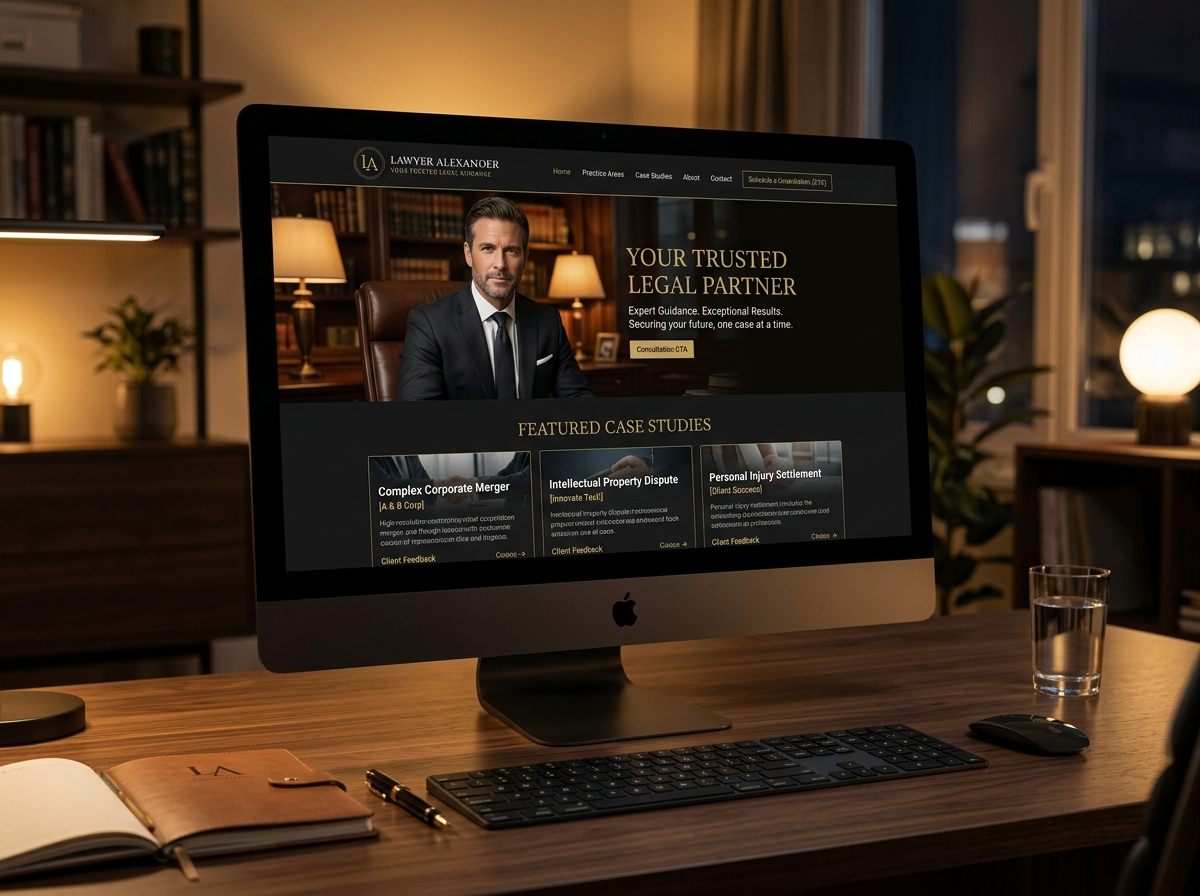
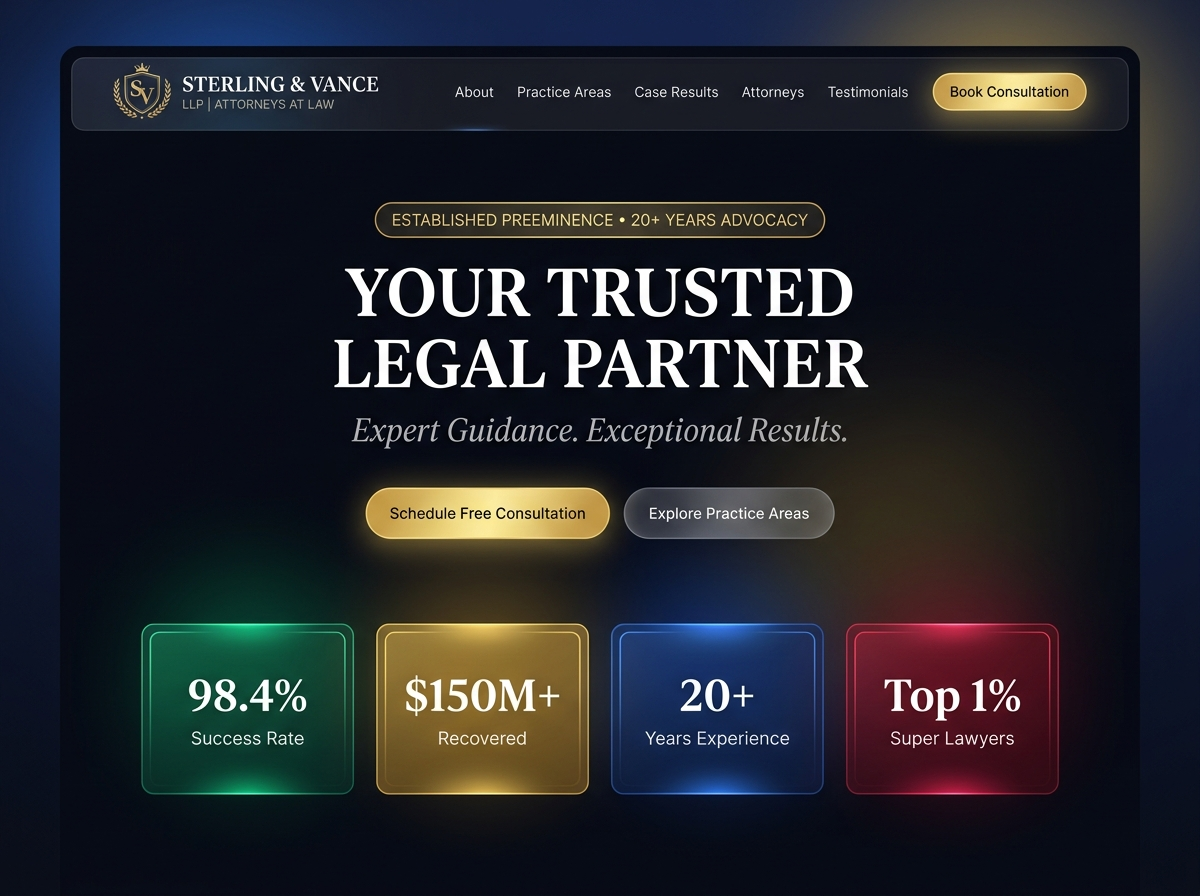
feat: update Sterling & Vance project card with actual website template interface

diff --git a/index.html b/index.html
@@ -442,7 +442,7 @@
                   <div class="live-demo-badge">
                     <span class="live-dot"></span> Live Demo ↗
                   </div>
-                  <img src="assets/project1.jpg" alt="Sterling & Vance LLP Website Mockup" class="card-img"
+                  <img src="assets/project1.jpg?v=2" alt="Sterling & Vance LLP Website Template" class="card-img"
                     loading="lazy">
                 </div>
                 <div class="card-info">
